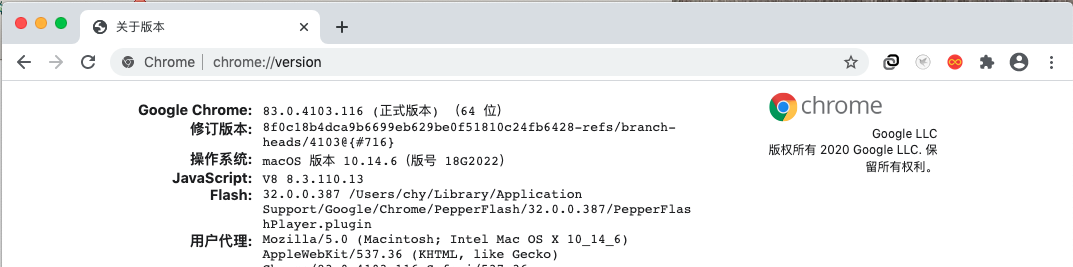
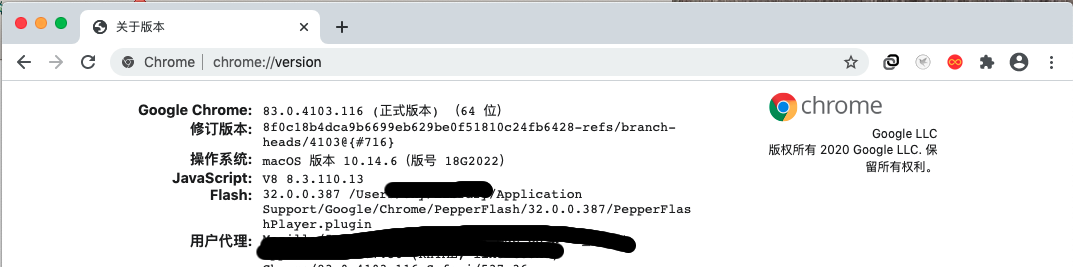
edit

Changed region(s): [[0.2153, 0.839, 0.6151, 0.9888], [0.3383, 0.6592, 0.4613, 0.7491], [0.7074, 0.3895, 0.7381, 0.4195]]

diff --git a/gauntlet.py b/gauntlet.py
@@ -12,7 +12,7 @@ if user.find('@')>=0:
     print("请注意网页验证提示") 
 
 #此处改为chromedriver的本地位置
-driver = webdriver.Chrome(executable_path="/Users/chy/Desktop/chromedriver")
+driver = webdriver.Chrome(executable_path="*********/chromedriver")
 
 #全屏（如需要全屏，将下一行取消注释即可）
 #driver.maximize_window()
